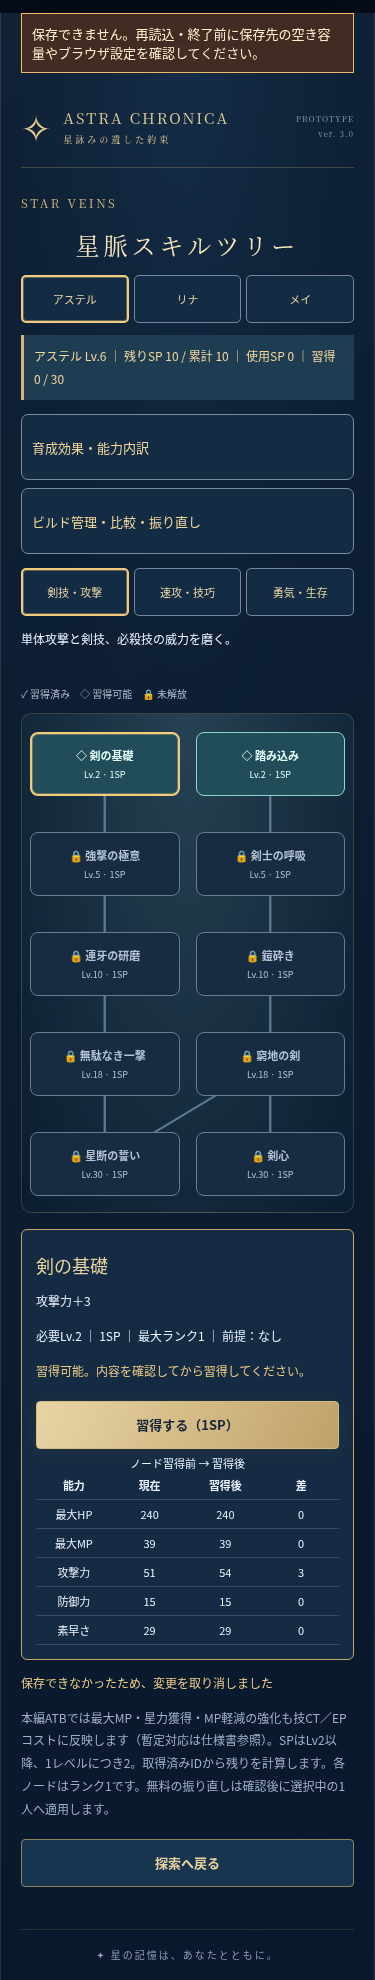
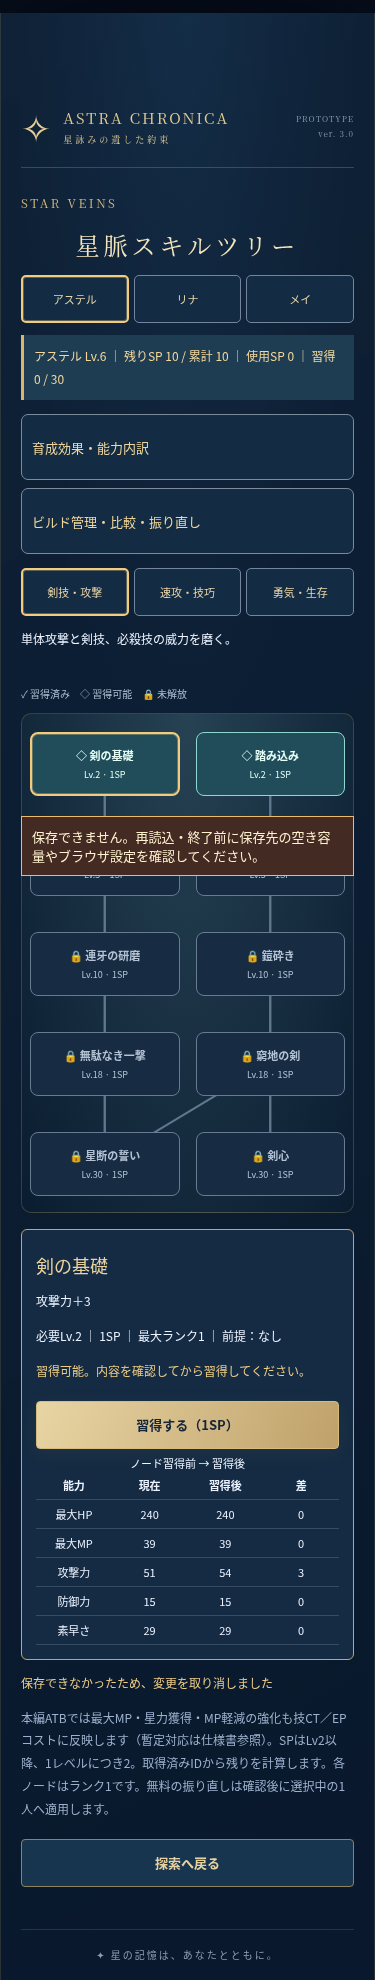
fix(v3.9): keep save failures visible while scrolling

Changed region(s): [[0.0587, 0.4005, 0.968, 0.4621], [0.0587, 0.0, 0.968, 0.0616]]

diff --git a/src/main.ts b/src/main.ts
@@ -62,7 +62,7 @@ const game=new Phaser.Game({type:Phaser.AUTO,width:390,height:310,transparent:tr
 const canvasHost=game.config.parent as HTMLElement;canvasHost.className='stage';canvasHost.setAttribute('aria-label','図形で描かれたパーティと戦場');
 const resizeStage=()=>{if(!game.isBooted||!canvasHost.clientWidth||!canvasHost.clientHeight)return;const height=Math.round(390*canvasHost.clientHeight/canvasHost.clientWidth);if(game.scale.gameSize.height!==height)game.scale.resize(390,height)};
 new ResizeObserver(resizeStage).observe(canvasHost);game.events.once(Phaser.Core.Events.READY,resizeStage);
-function persist(){storageOK=save(progress);let warning=app.querySelector<HTMLElement>('#save-warning');if(!warning){warning=document.createElement('p');warning.id='save-warning';warning.setAttribute('role','alert');app.querySelector('.shell')!.prepend(warning)}app.querySelectorAll('.save-note').forEach(note=>{note.textContent=storageOK?'進行はこのブラウザに自動保存されます':'保存できません。現在のプレイは続行できます'});warning.hidden=storageOK;warning.textContent=storageOK?'':'保存できません。再読込・終了前に保存先の空き容量やブラウザ設定を確認してください。';return storageOK}
+function persist(){storageOK=save(progress);let warning=app.querySelector<HTMLElement>('#save-warning');if(!warning){warning=document.createElement('p');warning.id='save-warning';warning.setAttribute('role','alert');app.querySelector('.shell')!.prepend(warning)}const noteText=storageOK?'進行はこのブラウザに自動保存されます':'保存できません。現在のプレイは続行できます';app.querySelectorAll('.save-note').forEach(note=>{if(note.textContent!==noteText)note.textContent=noteText});if(warning.hidden!==storageOK)warning.hidden=storageOK;const message=storageOK?'':'保存できません。再読込・終了前に保存先の空き容量やブラウザ設定を確認してください。';if(warning.textContent!==message)warning.textContent=message;return storageOK}
 function button(label:string,action:()=>void,cls='primary'){const b=document.createElement('button');b.textContent=label;b.className=cls;b.onclick=action;content.append(b);return b}
 function partyUnits(){return heroes.map(h=>withSkillTree(equippedUnit(growUnit(cloneUnit(h),progress.party[h.id]),progress.equipment.equipped[h.id as HeroId]),progress.skillTree[h.id as HeroId]))}
 function draw(units=partyUnits()){content.append(canvasHost);game.events.emit('stage',units,selected,screen==='battle'?battle.units.findIndex(u=>u.id===targetId):-1)}

diff --git a/src/style.css b/src/style.css
@@ -7,4 +7,4 @@
 .effects{display:block!important;font-size:9px!important;color:#efcb87!important;line-height:1.6;overflow-wrap:anywhere}.lab-form{display:grid;grid-template-columns:repeat(2,minmax(0,1fr));gap:10px;margin-top:20px;text-align:left}.lab-form label{display:flex;flex-direction:column;gap:5px;font-size:11px;color:#d5c698}.lab-form select,.lab-form button{min-height:46px;width:100%;font:inherit;color:#f0e2c1;background:#19374f;border:1px solid #8e835e;border-radius:4px;padding:6px}.lab-form .hint{grid-column:1/-1}#lab-units{text-align:left;font-size:11px;line-height:1.9}#lab-log{white-space:pre-wrap;text-align:left;font:11px/1.8 sans-serif;max-height:260px;overflow:auto;background:#061526;padding:12px}#lab-notice,#lab-current,#lab-growth{font-size:12px;line-height:1.9;overflow-wrap:anywhere;color:#e8d3a6}
 .lab-form .lab-wide{grid-column:1/-1}.lab-form .lab-check{flex-direction:row;align-items:center;min-height:48px;padding:8px;border:1px solid #63768a}.lab-check input{width:24px;height:24px;flex-shrink:0}.lab-orders{text-align:left;background:#102b43;padding:12px;margin-top:12px}.lab-orders p,#lab-duration{font-size:11px;line-height:1.9;overflow-wrap:anywhere}.lab-orders h2{font-size:15px}#lab-log{overflow-wrap:anywhere}
 
-#save-warning{padding:10px;border:1px solid #edba69;background:#432a23;color:#fff2cf;font-size:13px;overflow-wrap:anywhere}#save-warning[hidden]{display:none}
+#save-warning{position:sticky;top:env(safe-area-inset-top,0px);z-index:50;padding:10px;border:1px solid #edba69;background:#432a23;color:#fff2cf;font-size:13px;overflow-wrap:anywhere}#save-warning[hidden]{display:none}

diff --git a/docs/INTEGRATION_V39.md b/docs/INTEGRATION_V39.md
@@ -34,7 +34,7 @@
 
 保存キー `astra-chronica:v1`、version:2を維持。新しい保存フィールドは追加していない。v3.7のbuilds、v3.8のsurvey、world、装備・経験値・SP・章進行を保持する。
 
-保存失敗は画面をまたいで残るrole=alertの警告と既存保存状態表示に反映する。次の保存成功時に解除する。保存頻度は増やしていない。戦闘結果のserialと重複報酬防止、旧セーブのnormalizeWorld/recoverWorldは変更しない。通常の成長・装備編集だけを既存トランザクションに統一した。
+保存失敗は画面をまたいで残るrole=alertの警告と既存保存状態表示に反映する。次の保存成功時に解除する。開発途中の警告は320pxのスクロール中にy=-833pxとなったため、stickyとセーフエリア対応で常に読めるように修正した。同じ失敗の繰り返しでは警告テキストノードを再生成しない。保存頻度は増やしていない。戦闘結果のserialと重複報酬防止、旧セーブのnormalizeWorld/recoverWorldは変更しない。通常の成長・装備編集だけを既存トランザクションに統一した。
 
 ## テスト構成
 
@@ -50,7 +50,7 @@
 
 ヒープ使用量APIはローカル試験で利用できず、未測定（null）とする。全JavaScript割り当ての解放を証明する試験ではなく、測定対象の増加と操作不能・ブラウザエラーを検出する試験である。
 
-背景試験は仮想時計から分離し、ネイティブ時計でdocument.hiddenとvisibilitychangeを制御して6.2秒待つ。ローカルではモデル時刻の差は約0.08～0.10秒で、HP・EPは不変だった。ヘッドレスChromeの最小化・Page.freezeでは可視性が変わらなかったため、これをOSによる実際の背景化の確認とは報告しない。iPhone Safari実機のOS中断は未確認。
+背景試験は仮想時計から分離し、ネイティブ時計でdocument.hiddenとvisibilitychangeを制御して6.2秒待つ。ローカルではモデル時刻の差は約0.08～0.12秒で、HP・EPは不変だった。ヘッドレスChromeの最小化・Page.freezeでは可視性が変わらなかったため、これをOSによる実際の背景化の確認とは報告しない。iPhone Safari実機のOS中断は未確認。
 
 ## 検証結果
 
